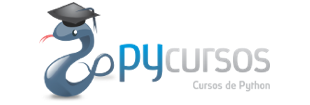
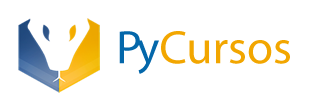
Removed Pingmind, dead startup. Updated PyCursos, pivoted startup! Added PUG-PE Foss Group!

Changed region(s): [[0.0581, 0.0, 0.9581, 0.9714], [0.6097, 0.7714, 0.871, 0.8857]]

diff --git a/index.html b/index.html
@@ -156,9 +156,6 @@ choice.
 				<a href="http://www.traineeworld.com.br" target="_blank"><img src="manguez_files/traineeworld.jpg"></a>
 		 	</div>
 	     	<div class="item">
-				<a href="http://www.pingmind.com/" target="_blank"><img src="manguez_files/pingmind.png"></a>
-		 	</div>
-	     	<div class="item">
 				<a href="http://www.bluwhee.com/" target="_blank"><img src="manguez_files/bluwhee.png"></a>
 		 	</div>
 	     	<div class="item">
@@ -191,6 +188,12 @@ choice.
 		 	<div class="item">
 				<a href="http://www.manguebits.com/" target="_blank"><img src="manguez_files/manguebits.png"></a>
 		 	</div>
+		</div>
+		<h1>FOSS Groups</h1>
+		<div id="gallery" class="groupsgallery">
+			<div class="item">
+					<a href="http://pycon.pug.pe/" target="_blank"><img class="pug" src="manguez_files/pugpe.jpg"></a>
+			</div>
 		</div>
 		<div id="information">
 			<h2 style="text-align: center; border-top: 1px solid #d1d7cb; border-bottom: 1px solid #d1d7cb; background: #B49400;">Premiere Sponsor</h2>

diff --git a/manguez_files/stylesheet.css b/manguez_files/stylesheet.css
@@ -204,6 +204,14 @@ p.welcome {
     float: left;
     height: 105px;
     width: 310px;
+    text-align: center;
+}
+
+#gallery.groupsgallery{
+	height: 240px;
+}
+.item img.pug{
+	margin-top: 13px;
 }
 
 #gallery {
